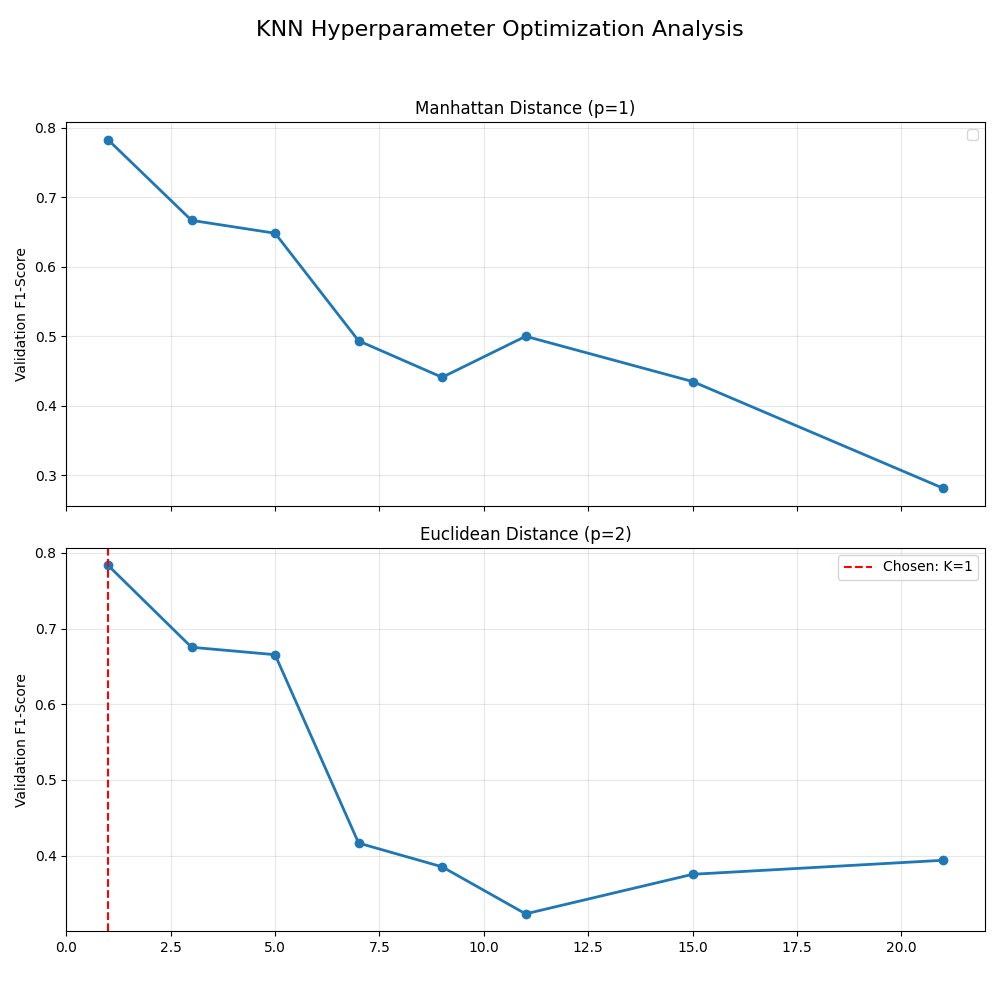
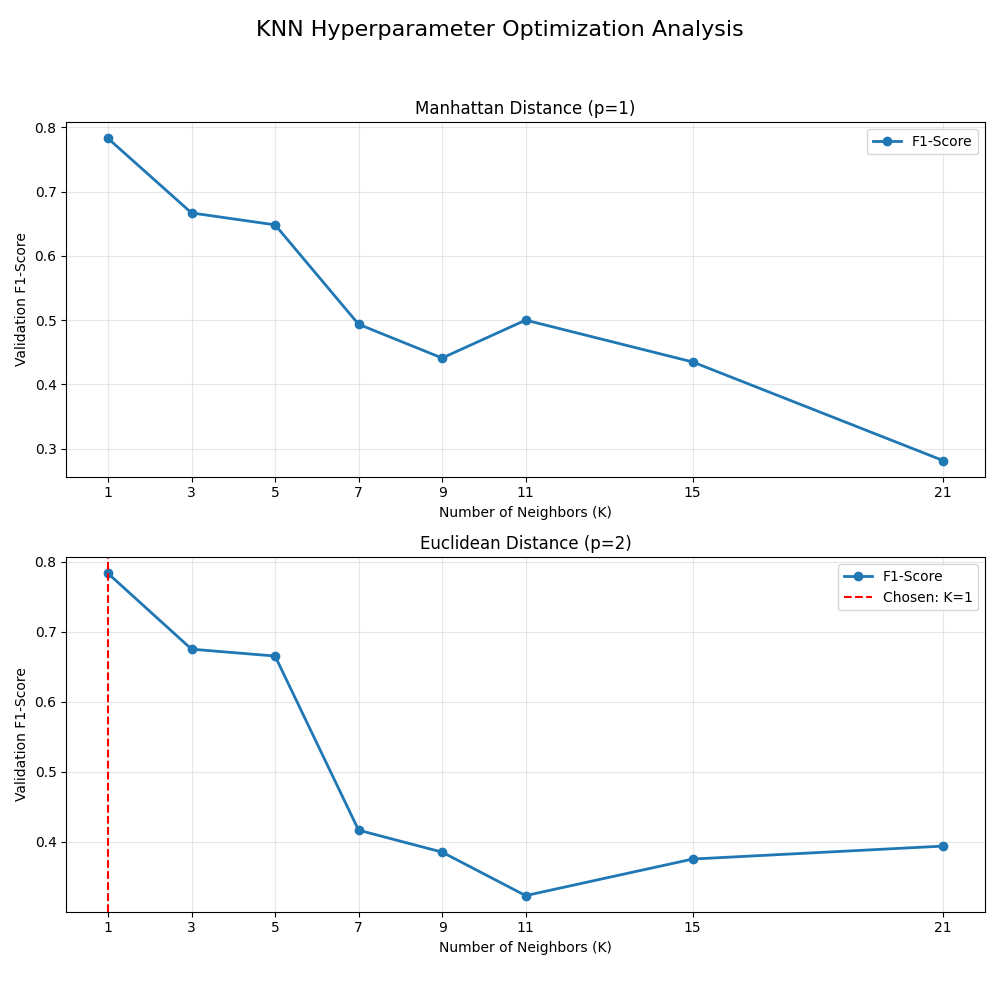
model_visualization.py: adjusted column widths and bold headers in hyperparameters graph and fix KNN graph x-axis

diff --git a/model_visualizer.py b/model_visualizer.py
@@ -53,7 +53,7 @@ def load_data(file_prefix):
 # Statistical Visualization Functions
 def plot_knn_history_from_train():
     """
-    Creates a graph to show how the best settings for the KNN model founded.
+    Creates a graph to show how the best settings for the KNN model were found.
     - Compares accuracy for different numbers of neighbors (K).
     - Compares two different ways to measure distance (p=1 vs p=2).
     """
@@ -68,7 +68,10 @@ def plot_knn_history_from_train():
         history = pickle.load(f)
     df = pd.DataFrame(history)
 
-    # Extract chosen hyperparameters from the saved model for visual highlighting
+    # Align X-axis ticks with the specific K-values tested during grid search
+    unique_ks = sorted(df['k'].unique())
+
+    # Extract chosen hyperparameters
     selected_k, selected_p = None, None
     if os.path.exists(KNN_MODEL_PATH):
         with open(KNN_MODEL_PATH, "rb") as f:
@@ -77,20 +80,24 @@ def plot_knn_history_from_train():
                 selected_k = m.n_neighbors
                 selected_p = m.p
 
-    fig, axes = plt.subplots(2, 1, figsize=(10, 10), sharex=True)
+    # Disable shared axes to ensure independent labels and ticks for each distance metric
+    fig, axes = plt.subplots(2, 1, figsize=(10, 10), sharex=False)
     p_titles = {1: "Manhattan Distance (p=1)", 2: "Euclidean Distance (p=2)"}
 
     for i, p_val in enumerate([1, 2]):
         subset = df[df['p'] == p_val]
         ax = axes[i]
-        ax.plot(subset['k'], subset['score'], marker='o', linewidth=2, color='tab:blue')
+        ax.plot(subset['k'], subset['score'], marker='o', linewidth=2, color='tab:blue', label='F1-Score')
 
-        # Visual indicator for the optimal parameter set
-        if p_val == selected_p and selected_k is not None:
-            ax.axvline(x=selected_k, color='red', linestyle='--', label=f'Chosen: K={selected_k}')
+        # Highlight the optimal hyperparameter configuration used in the final model
+        if p_val == selected_p and selected_k is not None: ax.axvline(x=selected_k, color='red', linestyle='--', label=f'Chosen: K={selected_k}')
 
         ax.set_title(p_titles[p_val])
         ax.set_ylabel("Validation F1-Score")
+        ax.set_xlabel("Number of Neighbors (K)")
+
+        # Explicitly set X-axis ticks to match the discrete K-values tested
+        ax.set_xticks(unique_ks)
         ax.grid(True, alpha=0.3)
         ax.legend()
 
@@ -193,24 +200,35 @@ def save_hyperparameters_table_image():
                 model = pickle.load(f)
             model_type = type(model).__name__
             params = model.get_params()
+
             # Keep only the important settings for the table
             relevant = {k: params[k] for k in important_params.get(model_type, []) if k in params}
-            data.append([model_file.replace(".pkl", ""), model_type.replace("Classifier", ""),
-                         str(relevant).replace("{", "").replace("}", "").replace("'", "")])
+            data.append([model_file.replace(".pkl", ""), model_type.replace("Classifier", ""), str(relevant).replace("{", "").replace("}", "").replace("'", "")])
         except:
             continue
 
     if not data: return
 
     # Creating the visual table using Matplotlib
-    fig, ax = plt.subplots(figsize=(14, len(data) * 0.7 + 2))
+    fig, ax = plt.subplots(figsize=(16, len(data) * 0.8 + 2))
     ax.axis('off')
-    table = ax.table(cellText=data, colLabels=["Model Name", "Type", "Key Settings"], cellLoc='left', loc='center', colWidths=[0.15, 0.15, 0.7])
-    table.auto_set_font_size(False)
-    table.set_fontsize(11)
-    table.scale(1, 2.5)
 
-    plt.title("Model Settings Summary", fontsize=18, pad=30, weight='bold')
+    # [Model Name, Type, Key Settings]
+    column_widths = [0.15, 0.10, 0.45]
+
+    table = ax.table(cellText=data, colLabels=["Model Name", "Type", "Key Settings"], cellLoc='left', loc='center', colWidths=column_widths)
+
+    # Bolding the header row
+    for (row, col), cell in table.get_celld().items():
+        if row == 0:
+            cell.get_text().set_weight('bold')
+            cell.get_text().set_fontsize(12)
+
+    table.auto_set_font_size(False)
+    table.set_fontsize(10)
+    table.scale(1, 3)
+
+    plt.title("Model Hyperparameter Configuration Summary", fontsize=18, pad=30, weight='bold')
     plt.savefig(os.path.join(REPORTS_DIR, "models_hyperparameters_table.png"), bbox_inches='tight', dpi=300)
     plt.show()
 
@@ -256,8 +274,8 @@ def save_all_classification_reports():
 # Main Execution Engine
 if __name__ == "__main__":
     # Execute all visualization routines to populate the Reports directory
-    plot_confusion_matrix()
-    plot_knn_history_from_train()
-    plot_nn_training_history()
+    #plot_confusion_matrix()
+    #plot_knn_history_from_train()
+    #plot_nn_training_history()
     save_hyperparameters_table_image()
-    save_all_classification_reports()
+    #save_all_classification_reports()
